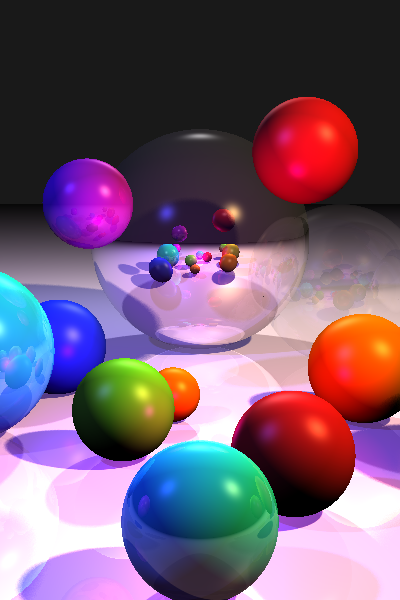
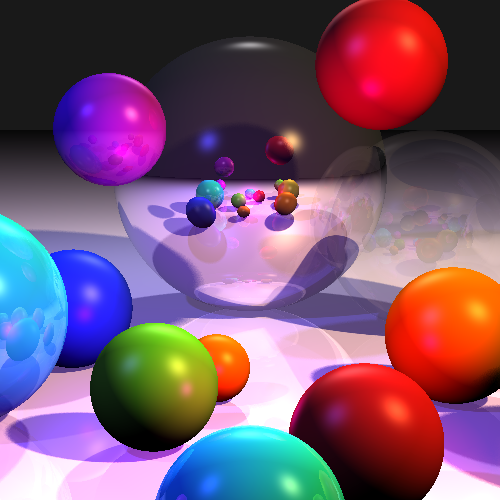
fixed visible

diff --git a/raytracer/ray.py b/raytracer/ray.py
@@ -41,9 +41,9 @@ class Ray:
             if hit_point is None or t is None:
                 continue
             if 1e-4 < t < max_distance:
-                mat = materials[obj.material_index - 1]
-                if mat.transparency > 0:
-                    continue
+                #mat = materials[obj.material_index - 1]
+                #if mat.transparency > 0:
+                 #   continue
                 return False
         return True
 

diff --git a/raytracer/ray_tracer.py b/raytracer/ray_tracer.py
@@ -96,7 +96,6 @@ def get_color(scene_settings, ray, lights, materials, objects, camera, max_iters
         reflection_color_val = get_color(scene_settings, reflected_ray, lights, materials, objects, camera, max_iters - 1)
 
         current_color = current_color + (reflection_color * reflection_color_val)
-        #current_color = (1 - reflection_color) * current_color + reflection_color * reflection_color_val
 
     return current_color
 
